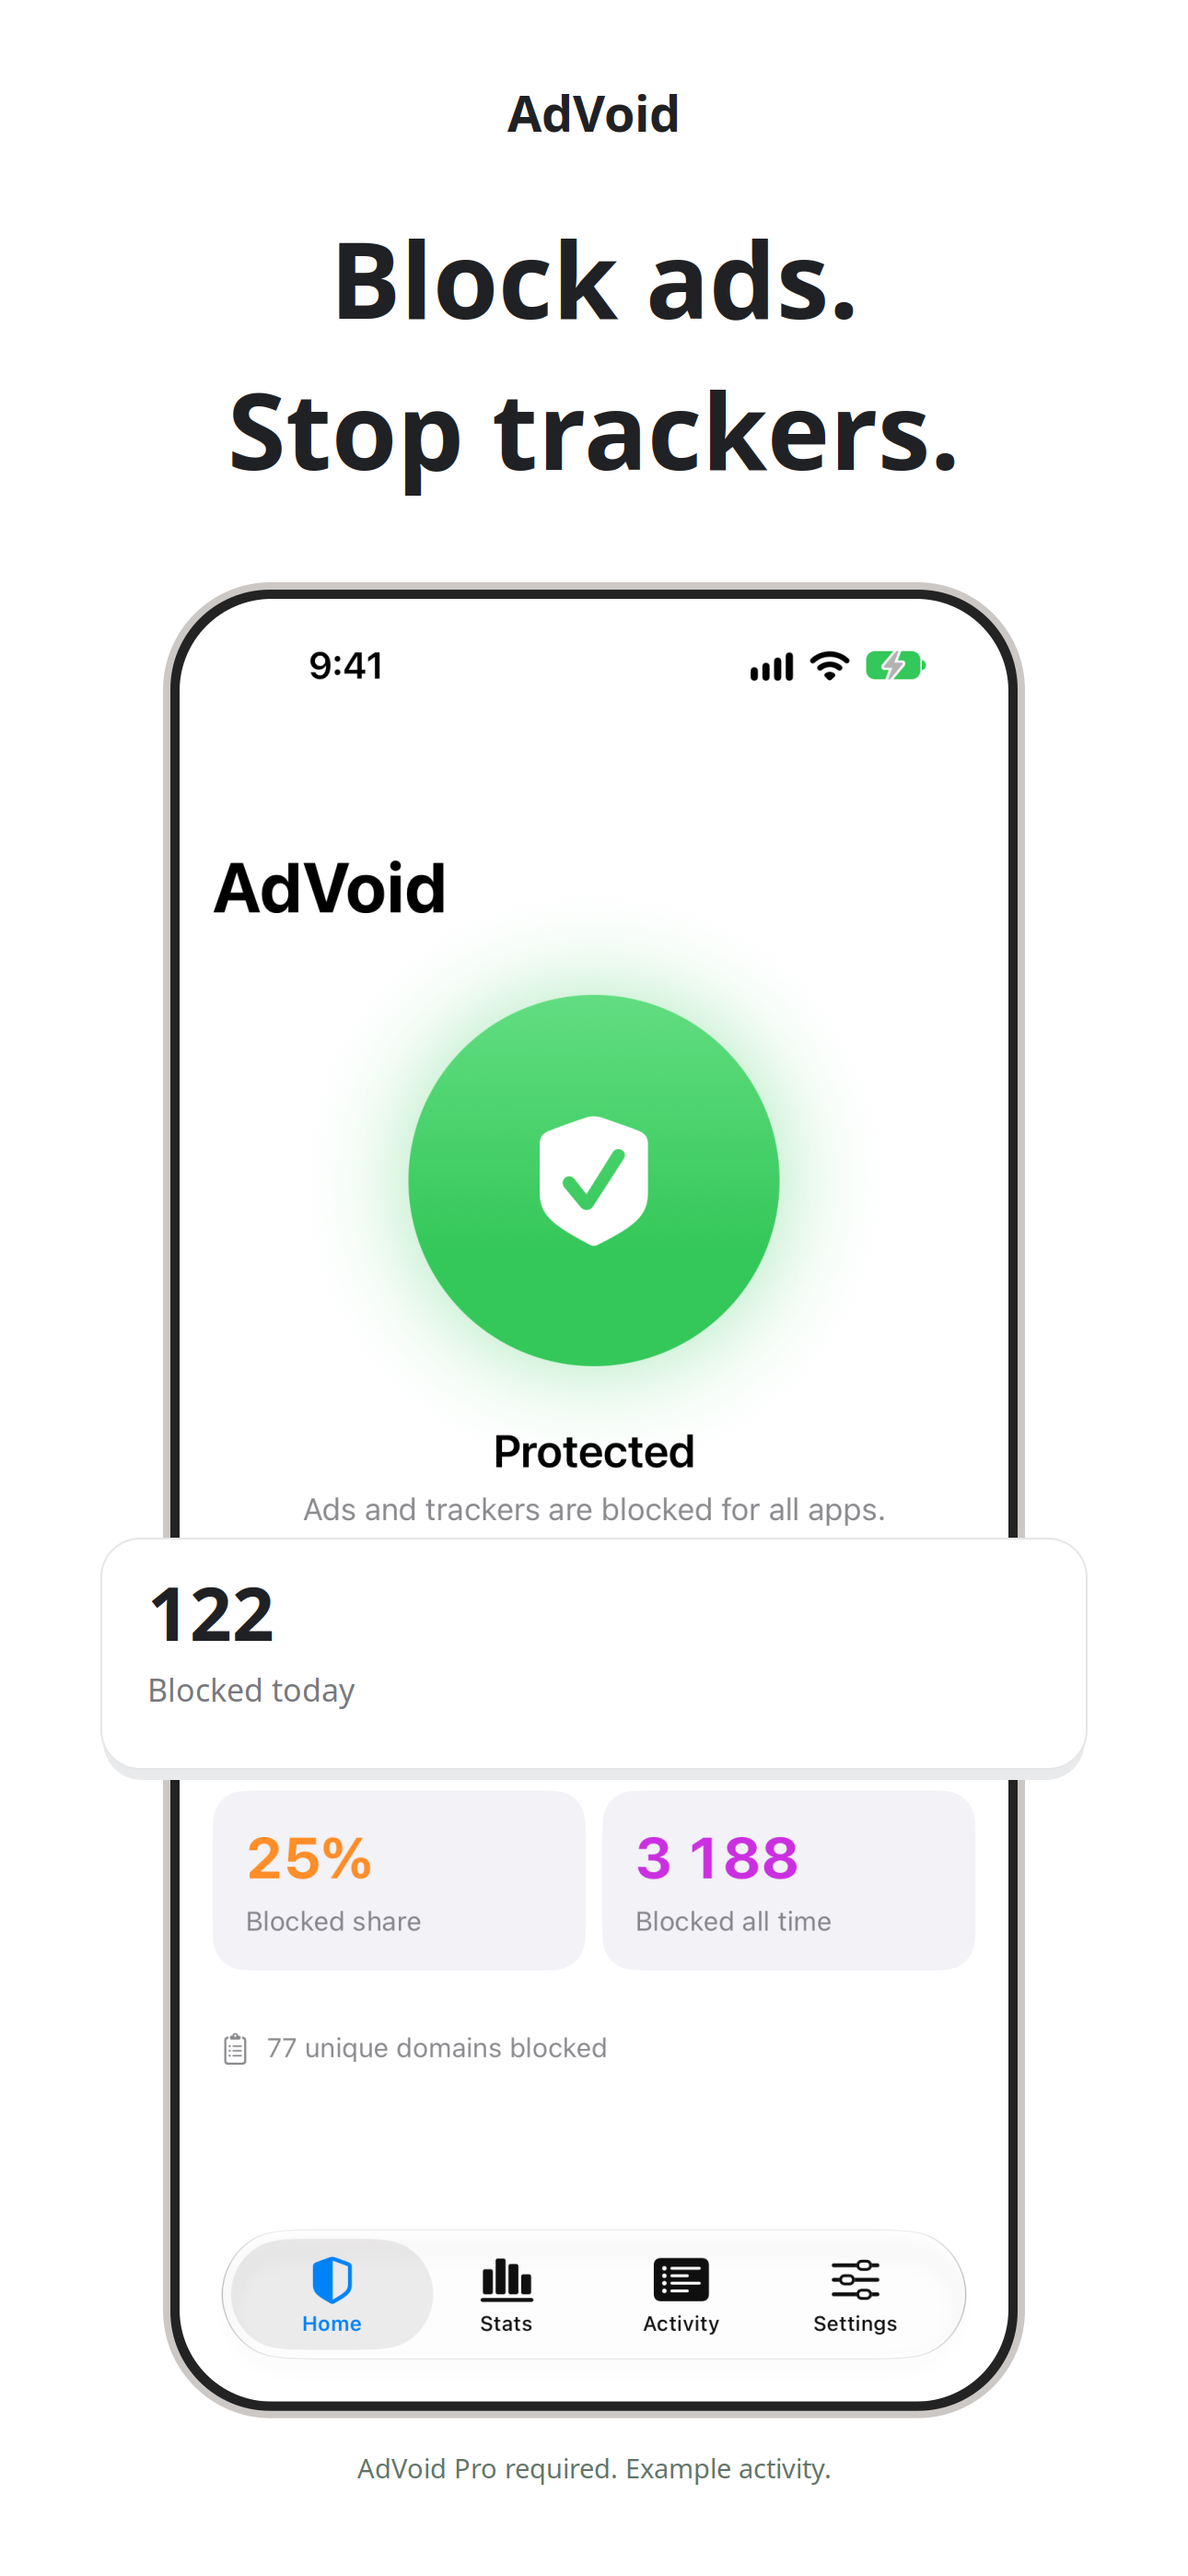
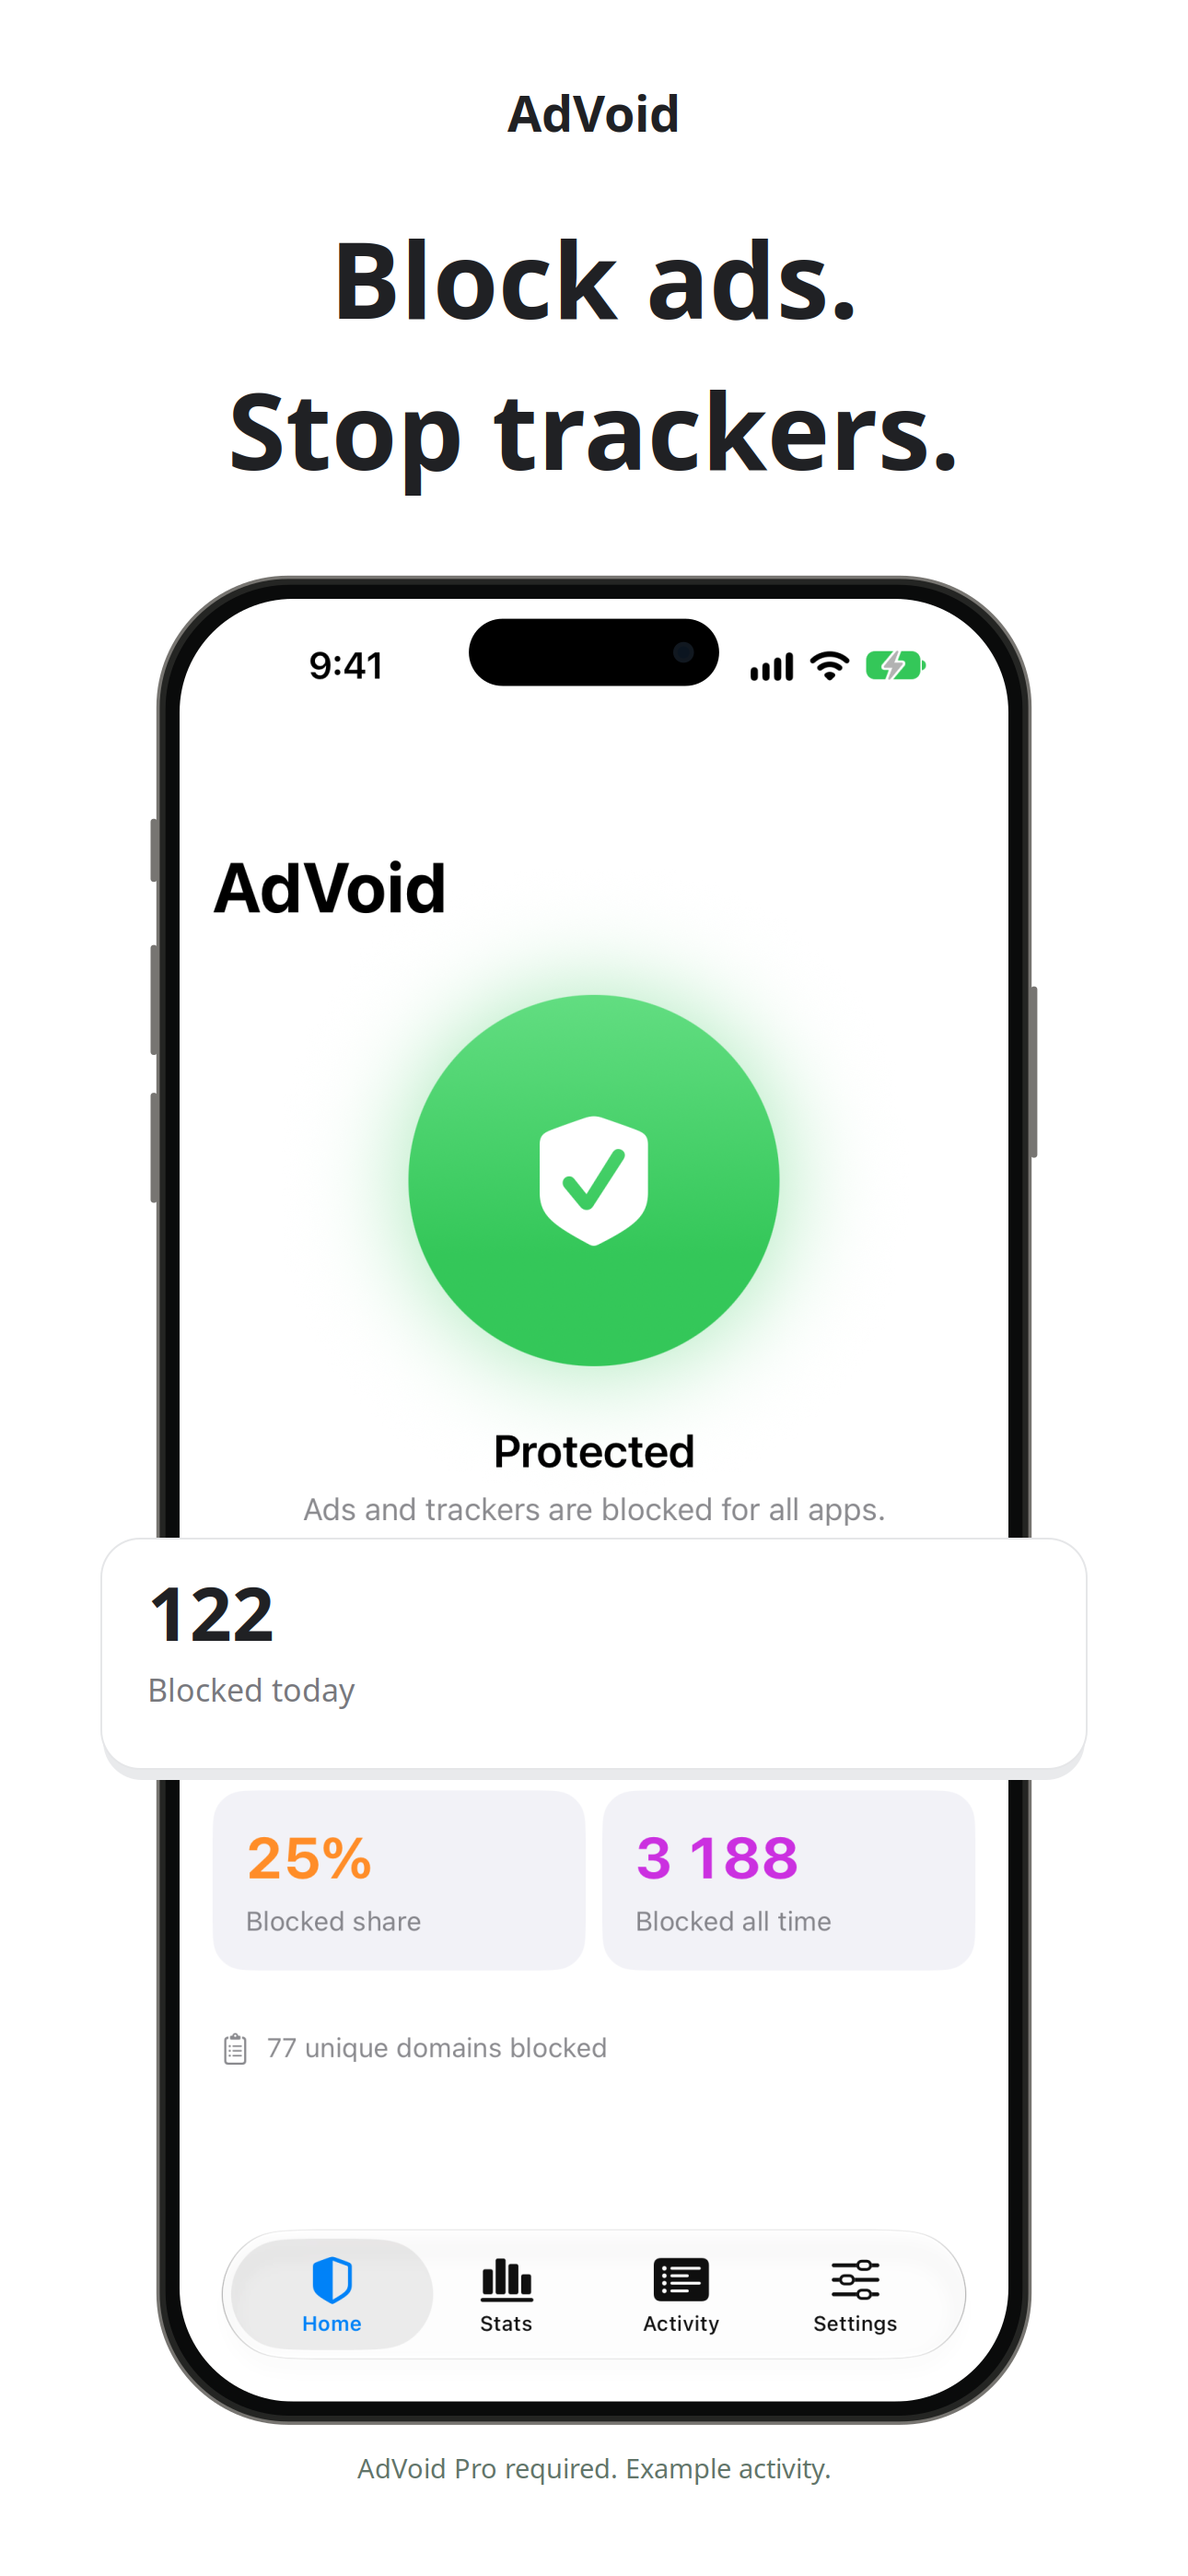
Use a realistic Dynamic Island iPhone frame across store artwork

Changed region(s): [[0.124, 0.2178, 0.8372, 0.6223], [0.124, 0.6845, 0.8682, 0.9646], [0.8372, 0.2489, 0.8992, 0.6223]]

diff --git a/output/app-store-calm/device.py b/output/app-store-calm/device.py
@@ -1,0 +1,28 @@
+"""Deterministic black-titanium iPhone mockup around the real unmodified UI capture."""
+import math
+
+def rounded(ctx,x,y,w,h,r):
+ ctx.new_sub_path()
+ for cx,cy,a in [(x+w-r,y+r,-90),(x+w-r,y+h-r,0),(x+r,y+h-r,90),(x+r,y+r,180)]:ctx.arc(cx,cy,r,math.radians(a),math.radians(a+90))
+ ctx.close_path()
+def color(ctx,value):ctx.set_source_rgb(*(int(value[i:i+2],16)/255 for i in (1,3,5)))
+def draw_iphone(ctx,shot,x,y,width):
+ sw,sh=shot.get_width(),shot.get_height();height=width*sh/sw
+ rim=width*.028;radius=width*.159
+ # Separate side buttons, behind the titanium edge.
+ for right,offset,length in [(False,.122,.035),(False,.192,.061),(False,.274,.061),(True,.215,.095)]:
+  bx=x+width+rim-1 if right else x-rim-width*.007
+  color(ctx,'#777572');rounded(ctx,bx,y+height*offset,width*.008,height*length,width*.0035);ctx.fill()
+ # A restrained metallic edge, flat front glass and thin black screen bezel.
+ color(ctx,'#777571');rounded(ctx,x-rim,y-rim,width+2*rim,height+2*rim,radius);ctx.fill()
+ color(ctx,'#242523');rounded(ctx,x-rim+width*.004,y-rim+width*.004,width+2*rim-width*.008,height+2*rim-width*.008,radius-width*.004);ctx.fill()
+ color(ctx,'#0A0B0B');rounded(ctx,x-width*.017,y-width*.017,width*1.034,height+width*.034,width*.15);ctx.fill()
+ ctx.save();rounded(ctx,x,y,width,height,width*.137);ctx.clip()
+ ctx.translate(x,y);ctx.scale(width/sw,height/sh);ctx.set_source_surface(shot,0,0);ctx.paint();ctx.restore()
+ # Hardware island aligns with the untouched status bar in the source capture.
+ iw=width*.302;ih=width*.081;ix=x+(width-iw)/2;iy=y+width*.024
+ color(ctx,'#000000');rounded(ctx,ix,iy,iw,ih,ih/2);ctx.fill()
+ # Camera lens inside the island, deliberately low contrast.
+ ctx.arc(ix+iw-ih*.53,iy+ih*.5,ih*.155,0,math.tau);color(ctx,'#111820');ctx.fill()
+ ctx.arc(ix+iw-ih*.53,iy+ih*.5,ih*.09,0,math.tau);color(ctx,'#0B1520');ctx.fill()
+ return height

diff --git a/output/app-store-calm/render_v3.py b/output/app-store-calm/render_v3.py
@@ -12,6 +12,7 @@ gi.require_foreign('cairo')
 gi.require_version('Pango', '1.0'); gi.require_version('PangoCairo', '1.0')
 from gi.repository import Pango, PangoCairo
 import cairo
+from device import draw_iphone
 ROOT=Path(__file__).parent
 CAPTURES=ROOT.parent/'app-store-screenshots'/'source-captures'
 W,H=1290,2796
@@ -55,10 +56,7 @@ def render(locale, entry):
         shot=cairo.ImageSurface.create_from_png(str(CAPTURES/(lang or '')/(screen+'.png')))
         sw,sh=shot.get_width(),shot.get_height(); width=900; height=width*sh/sw
         x=(W-width)/2;y=650
-        color(ctx,'#CCC8C5');rounded(ctx,x-18,y-18,width+36,height+36,117);ctx.fill()
-        color(ctx,'#242323');rounded(ctx,x-10,y-10,width+20,height+20,108);ctx.fill()
-        ctx.save();rounded(ctx,x,y,width,height,100);ctx.clip()
-        ctx.translate(x,y);ctx.scale(width/sw,height/sh);ctx.set_source_surface(shot,0,0);ctx.paint();ctx.restore()
+        draw_iphone(ctx,shot,x,y,width)
         if True:
             # A magnified fact from the supplied demo capture, not a new feature.
             cy=1670 if i==0 else 1900

diff --git a/output/app-store-calm/render_media.py b/output/app-store-calm/render_media.py
@@ -2,14 +2,13 @@
 """Device exports and native search-results artwork, using existing app captures."""
 import json, sys
 from pathlib import Path
+from device import draw_iphone
 from render_v3 import cairo, color, rounded, text, ROOT, CAPTURES
 D=json.loads((ROOT/'localizations.json').read_text())
 
 def phone(ctx,path,x,y,width):
  shot=cairo.ImageSurface.create_from_png(str(path));sw,sh=shot.get_width(),shot.get_height();height=width*sh/sw
- color(ctx,'#CCC8C5');rounded(ctx,x-18,y-18,width+36,height+36,115);ctx.fill()
- color(ctx,'#242323');rounded(ctx,x-10,y-10,width+20,height+20,106);ctx.fill()
- ctx.save();rounded(ctx,x,y,width,height,98);ctx.clip();ctx.translate(x,y);ctx.scale(width/sw,height/sh);ctx.set_source_surface(shot,0,0);ctx.paint();ctx.restore()
+ draw_iphone(ctx,shot,x,y,width)
 
 def render(locale,e):
  out=ROOT/'screenshots-v3'/locale

diff --git a/output/app-store-calm/build_localizations.py b/output/app-store-calm/build_localizations.py
@@ -1,4 +1,4 @@
-"""Reviewed source strings for App Store listing and artwork. No in-app strings changed."""
+"""Localized source strings for App Store listing and artwork. No in-app strings changed."""
 import json, copy
 from pathlib import Path
 ROOT=Path(__file__).parent

diff --git a/output/app-store-calm/README.md b/output/app-store-calm/README.md
@@ -1,6 +1,6 @@
 # AdVoid calm App Store release assets
 
-Approved direction: white background, strong black functional headlines, real existing app captures, a restrained phone frame, and one magnified UI fact. Inspired by the current white Cal AI listing, not its older dark iPhone screenshot set.
+Approved direction: white background, strong black functional headlines, real existing app captures, a restrained phone frame, and one magnified UI fact. The shared `device.py` adds a black titanium iPhone frame with Dynamic Island, thin bezel, matched screen corner radius, camera lens and side buttons. Inspired by the current white Cal AI listing, not its older dark iPhone screenshot set.
 
 49 App Store locales are included in `localizations.json`; Hebrew (`he`) is excluded. These are App Store translations, not new in-app languages. Existing German, French and Spanish UI captures are used where available; other artwork shows the real English UI with localized headlines, callouts and disclosures. Translations were prepared by a language model and have not had native-speaker review.
 
@@ -24,3 +24,5 @@ python3 lifetime_copy.py
 From repository root, `node scripts/sync-store.mjs` preflights and shows the operation without writing. `--apply` updates the editable **1.2** version, app info localizations and media placements; it never submits for review. The script uses Storepilot's Apple client (`STOREPILOT_SOURCE` can override its source path), credentials from the private environment or `ASC_*`, and stores backups/reports outside Git. Each replacement group is restored on an observed placement failure. Uncertain network outcomes require a new read of Apple state before retrying.
 
 The batch targets the existing app, version and editable App Info IDs explicitly. Update and verify these before reusing it for another release. New localized app names use AdVoid plus a local search term; existing localized names are preserved. The sync removes stale lower-resolution iPhone overrides so they inherit the new highest-resolution set, and obsolete optional iPad screenshot placements from 1.2 because the app targets iPhone only. Product-page header artwork is preserved.
+
+`node scripts/verify-store.mjs` (from repository root) reads all 49 locales back from Apple and verifies copy, subtitles, screenshot order, content hashes, search-card count, and image readiness. Reports are stored privately outside Git.
